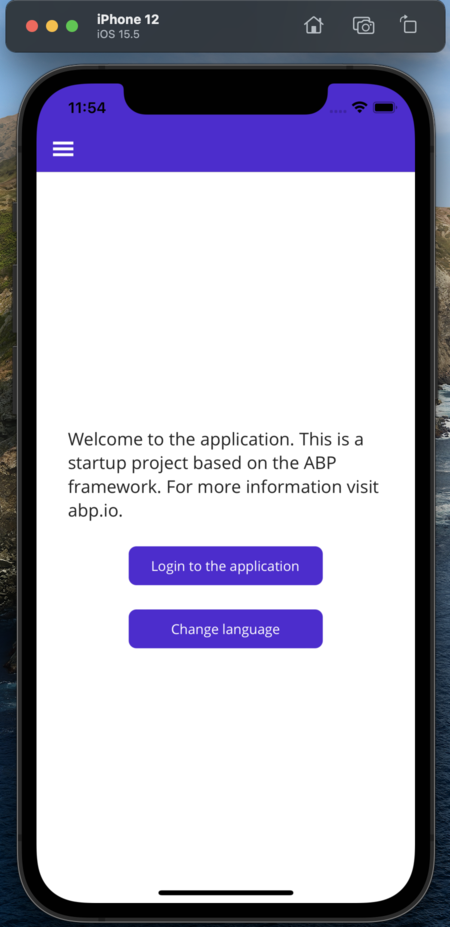
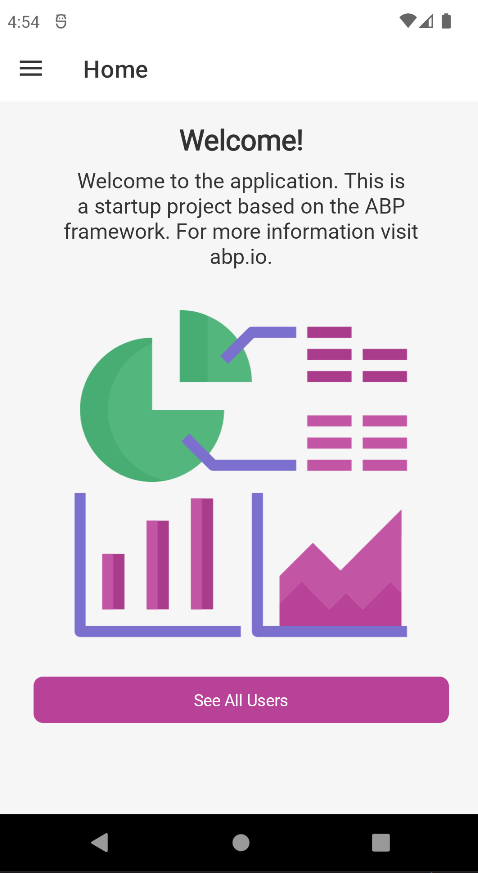
Revise & Update MAUI documentation for new design

diff --git a/en/getting-started-maui.md b/en/getting-started-maui.md
@@ -47,15 +47,40 @@ You need some extra steps, please check the [Microsoft document](https://learn.m
 
 If you run the MAUI on a Mac agent, the remote iOS Simulator can't access the backend application running on Windows, you need to run the backend application on Mac or make the backend application internally.
 
-## Run the Mobile Application
+## User Interface
+
+The MAUI template consists of four pages: 
+* **Homepage**: This is the welcome page of the application.
+* **Users**: Management page for your application users. You can search, add, update, or delete users of your application.
+* **Tenants**: Management page for your tenants. 
+* **Settings**: Management page for your application settings. On this page, you can change **the current language**, **the profile picture**, **the current password**, or/and **the current theme**.
+
+### Homepage
 
 ![Maui Home Page](./images/maui-home-page.png)
 
-When you click the *Login to the application* button, it redirects you to the login page. 
-Enter **admin** as the username and **1q2w3E*** as the password to login to the application.
+### Users Page
 
-![Maui User Page](./images/maui-user-page.png)
+![Maui Users Page](./images/maui-users-page.png)
 
-The user page shows you how to use CSharp client proxy to request backend API.
+### Tenants Page
 
-The application is up and running. You can continue to develop your application based on this startup template.
+![Maui Tenants Page](./images/maui-tenants-page.png)
+
+### Settings Page
+
+![Maui Settings Page](./images/maui-settings-page.png)
+
+## Run the Mobile Application
+
+You can run the MAUI application through Visual Studio or any other IDE that supports MAUI. After the application is up and running, you can continue to develope your application based on this startup template.
+
+You can examine the [Users Page](#users-page) or any other pre-defined page to see how to use CSharp Client Proxy to request backend API and consume the backend API in the same way in your application.
+
+### Advanced
+
+#### Validation
+
+In the context of the MVVM pattern (Model-View-ViewModel), a view model is responsible to perform data validation and signal any validation errors to the view so that the user can correct them. In MAUI, to perform validation you should define the view model properties as of type `ValidatableObject<T>` and specify related validations rules.
+
+To specify validation rules and add validation rules to a property, you can refer to [Microsoft's Validation documentation](https://learn.microsoft.com/en-us/dotnet/architecture/maui/validation).
